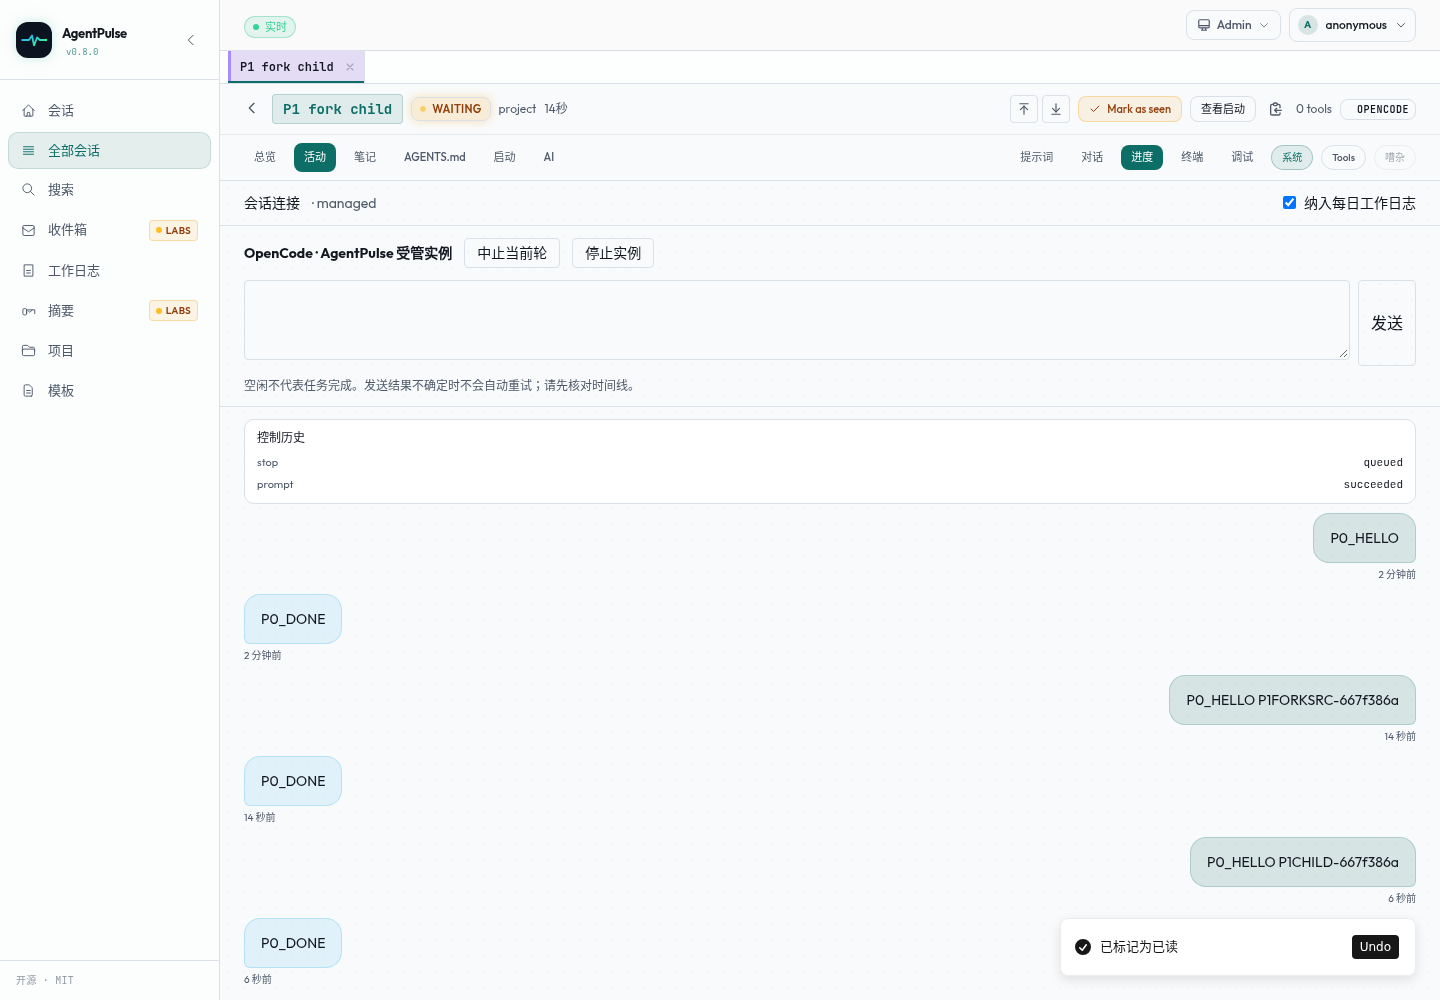
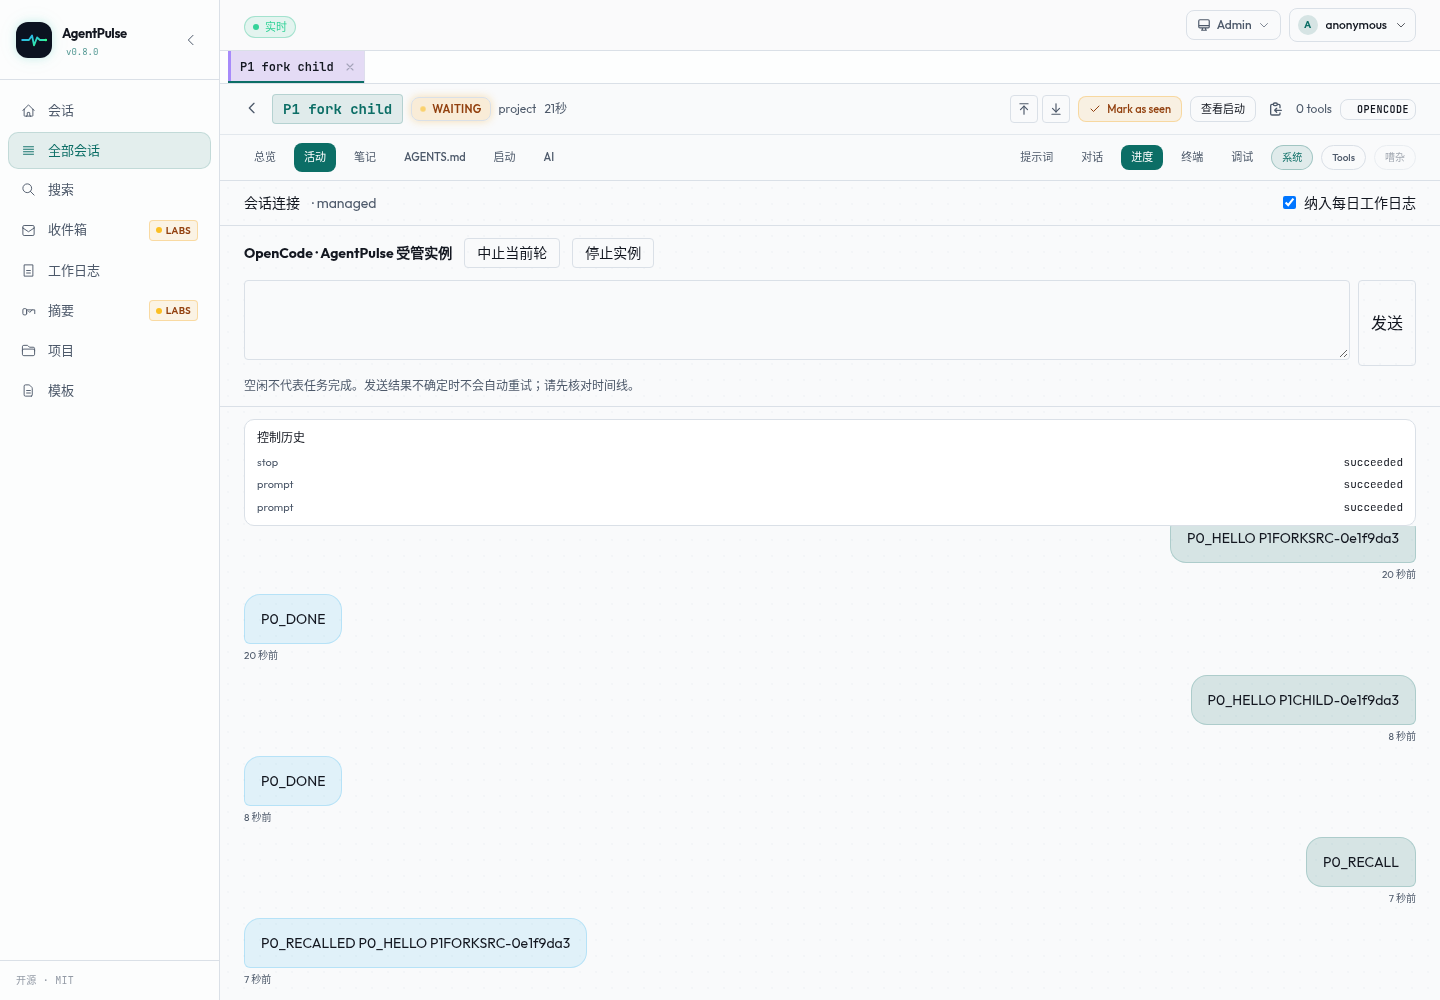
test(p1): prove the fork 暗号 reaches the MODEL, and refresh the plan status
- Fixture records every mock-model request (P0_RECORD_FILE) and exposes it in
  the state; mock answers P0_RECALL with the inherited P1FORKSRC marker it
  received.
- Fork browser slice: 14/14 — the child's MODEL REQUEST contains the inherited
  marker and the child ANSWERS from it, on top of inheritance/isolation/STOP
  boundary; child STOP succeeded and the child binding is protected-stopped
  while the parent binding stays active (epoch untouched).
- IMPLEMENTATION_TASKBOOK: current implemented/pending/open snapshot.

diff --git a/scripts/opencode-p0/p1-fork-browser.ts b/scripts/opencode-p0/p1-fork-browser.ts
@@ -70,6 +70,27 @@ try {
 		if (!childDone) await child.waitForTimeout(500);
 	}
 	check(childDone, "child has its OWN causal terminal for the child turn");
+	// The 暗号 must reach the MODEL, not just the DOM: the child's model request
+	// must carry the inherited pre-fork marker, and a recall turn must answer
+	// from it (the mock extracts it from the request it received).
+	const record = (await Bun.file(S.recordPath as string).text())
+		.trim()
+		.split("\n")
+		.filter(Boolean)
+		.map((line) => JSON.parse(line) as { messages?: { role?: string; text?: string }[] });
+	const childReq = record.find((r) => r.messages?.some((m) => m.text?.includes(childTurn)));
+	check(
+		Boolean(childReq?.messages?.some((m) => m.text?.includes(srcMarker))),
+		"child MODEL REQUEST contains the inherited marker",
+	);
+	await ta(child).fill("P0_RECALL");
+	await ta(child).press("Enter");
+	let recalled = false;
+	for (let i = 0; i < 120 && !recalled; i++) {
+		recalled = (await childText()).includes("P0_RECALLED") && (await childText()).includes(srcMarker);
+		if (!recalled) await child.waitForTimeout(500);
+	}
+	check(recalled, "child ANSWERS from the inherited marker (model recall)");
 	const parentPost = `P1PARENTPOST-${tag}`;
 	check(await sendAndWait(page, `P0_HELLO ${parentPost}`), "parent post-fork turn completed");
 	await child.waitForTimeout(1000);

diff --git a/scripts/opencode-p0/serve-managed-fixture.ts b/scripts/opencode-p0/serve-managed-fixture.ts
@@ -33,7 +33,9 @@ const { claimNextControlAction, updateControlAction } = await import(
 );
 const { mapLaunchRequest } = await import("../../src/server/services/launch-validator.js");
 await initializeDatabase();
+const recordPath = join(root, "model-requests.jsonl");
 const mock = Bun.spawn(["python3", "scripts/opencode-p0/mock_model.py"], {
+	env: { ...process.env, P0_RECORD_FILE: recordPath },
 	stdout: "pipe",
 	stderr: "ignore",
 });
@@ -309,6 +311,7 @@ if (buildStale)
 	);
 const state = {
 	root,
+	recordPath: join(root, "model-requests.jsonl"),
 	url: server.url.origin,
 	buildInfo,
 	buildStale,

diff --git a/scripts/opencode-p0/mock_model.py b/scripts/opencode-p0/mock_model.py
@@ -33,6 +33,9 @@ class Handler(BaseHTTPRequestHandler):
   if not done and body.get('tools'):
    if 'P0_PERMISSION' in content:tool=('bash',{'command':'printf P0_PERMISSION_OUTPUT','description':'P0 safe permission probe'})
    elif 'P0_QUESTION' in content:tool=('question',{'questions':[{'question':'Pick fixture options','header':'P0 fixture','options':[{'label':'Alpha','description':'A'},{'label':'Beta','description':'B'}],'multiple':True,'custom':True},{'question':'Enter fixture note','header':'P0 note','options':[{'label':'Default','description':'Use default'}],'custom':True}]})
+  recall=''
+  if 'P0_RECALL' in content:
+   recall=next((m.get('content') for m in messages if m.get('role')=='user' and isinstance(m.get('content'),str) and 'P1FORKSRC-' in m.get('content')),'')
   self.send_response(200)
   if body.get('stream'):
    self.send_header('Content-Type','text/event-stream');self.end_headers()
@@ -42,6 +45,7 @@ class Handler(BaseHTTPRequestHandler):
    try:
     chunk({'role':'assistant'})
     if tool:chunk({'tool_calls':[{'index':0,'id':'call_p0_'+tool[0],'type':'function','function':{'name':tool[0],'arguments':json.dumps(tool[1])}}]});chunk({},'tool_calls')
+    elif recall:chunk({'content':'P0_RECALLED '+recall.strip()[:160]});chunk({},'stop')
     else:chunk({'content':'P0_DONE'});chunk({},'stop')
     self.wfile.write(b'data: [DONE]\n\n');self.wfile.flush()
    except (BrokenPipeError,ConnectionResetError):pass

diff --git a/docs/IMPLEMENTATION_TASKBOOK_2026-10-18.md b/docs/IMPLEMENTATION_TASKBOOK_2026-10-18.md
@@ -93,3 +93,28 @@
 必要检查按变更选择：typecheck、Biome、相关服务/组件回归；结构变化跑 architecture；前端/服务入口变化跑生产 build；双数据库与初始化变化实测两方言全新/升级路径。浏览器不可用、原生版本不匹配或跨机环境缺失时列为未验证，不用模拟证据替代。
 
 首批行动：核对工作区并提交 P0 剩余问题清单；开始 P1 与 P4 的具体实现；P2/P3 先完成可验证原型和设计记录，再接入主路径。无需为日常可逆实现重复请求授权；真正需要停止旧驱动、迁移真实会话或改变旧授权守卫时提交具体对象、影响及回滚方案。
+
+## Status snapshot — 2026-10-27
+
+Implemented & committed (acceptance status in parentheses):
+- P1 drafts, async drafts, build provenance/hash gate, causal turn correlation
+  (native `parentID`), two tab-close entries — implementer run 14/14 (independent browser run pending).
+- Fork: acceptance route + finalize + trusted-child ingestion (own native
+  snapshots, generation/host checks, copyOf, idempotency) + browser inheritance
+  / isolation / STOP boundary — implementer 12/12 + model-request 暗号 proof
+  (independent browser run pending).
+- OpenCode observe-only hint keyed on server capability, with per-cause copy
+  (external/not_owner/unavailable/unknown) — 14/14 unit + both page types.
+- P2 real detached daemon A/B reconnect on the same native session/messageID —
+  implementer real-CLI run (independent run pending).
+- P3 read-only preflight (discovery, status, redaction) — base only.
+- P5 migration design + help snapshot — design only.
+
+Open / not accepted:
+- Stop → resume → real new turn (controlled operator entry), killed-instance
+  relaunch/rebuild, same-action/token/epoch reconciliation before clear.
+- P2 main path integration; reconnect cursor, approvals, action reconciliation;
+  resource reclamation; multi-host failure matrix.
+- P3 terminal discovery + real config/plugin compatibility preflight.
+- PG upgrade/interleave probes need independent acceptance re-run.
+- Product entries (fork/resume, external safe continuation) remain CLOSED.
